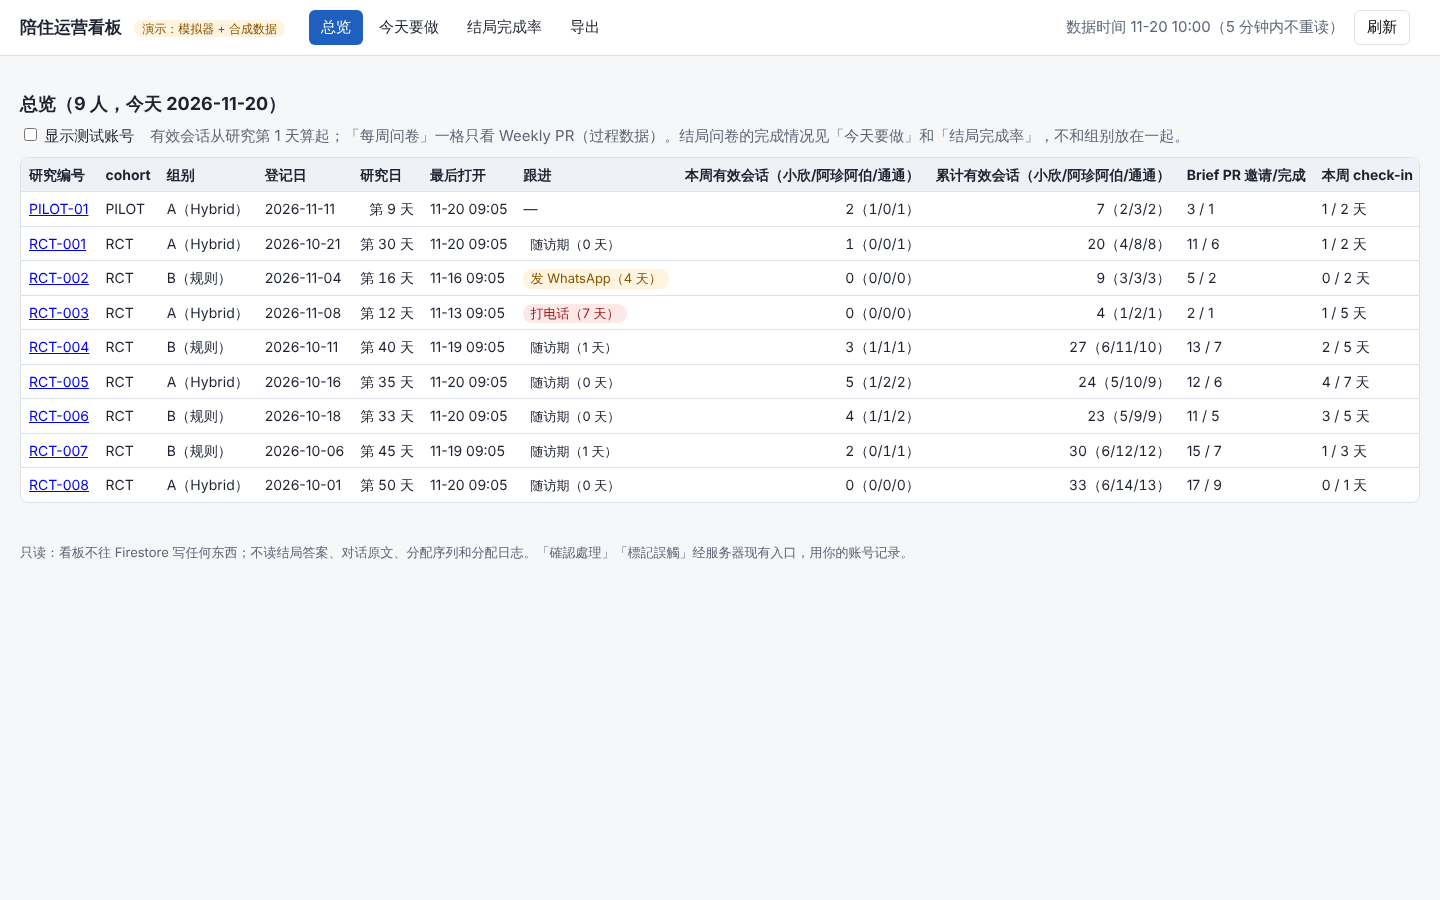
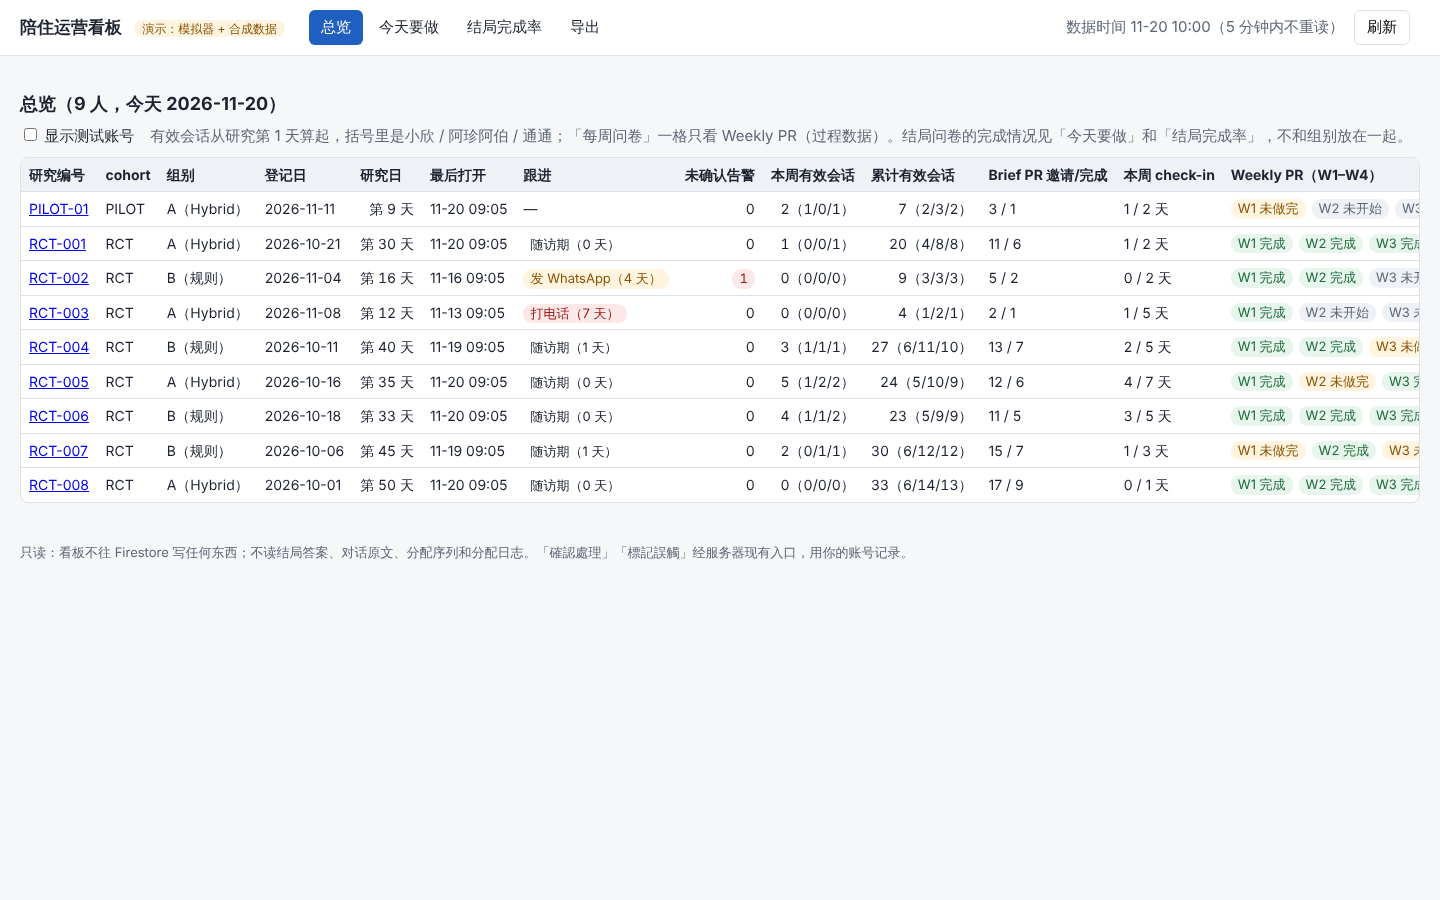
1020i v2 §2: narrower overview (one Weekly PR cell, alerts up front)
The overview fits a laptop screen better: the four Weekly PR columns are
one cell of four labels, the session headers are shorter, and the
unacknowledged-alert count sits next to the follow-up stage.  Screenshots
refreshed.

Claude-Session: https://claude.ai/code/session_013FmLr6bb1Cw8eCrYxKJMXh

diff --git a/tool/dashboard/public/app.js b/tool/dashboard/public/app.js
@@ -14,6 +14,9 @@
     follow_up_period: '随访期', none: '—'};
   const CELL = {not_yet: '未开始', open: '未做完', missed: '已过时间',
     done: '已完成', skipped: '已完成（跳过）', not_built: '未做'};
+  /** Short labels for the overview's one Weekly PR cell. */
+  const CELL_SHORT = {not_yet: '未开始', open: '未做完', missed: '过时',
+    done: '完成', skipped: '完成'};
   const LEVEL = {acute: '急性', moderate: '中度', low: '轻度'};
   const SOURCE_GROUP = {participant_input: '老人输入',
     ai_reply_scan: '夥伴回复扫描', questionnaire: '问卷',
@@ -255,6 +258,9 @@
       {label: '跟进', get: (r) => r.stage,
         cell: (r) => r.stage === 'none' ? '—' :
           pill(r.stage, `${STAGE[r.stage]}（${r.consecutiveUnopenedDays} 天）`)},
+      {label: '未确认告警', num: true, get: (r) => r.pendingAlerts,
+        cell: (r) => r.pendingAlerts ? pill('bad', String(r.pendingAlerts)) :
+          '0'},
     ].concat([sessionsCol('thisWeek', '本周'), sessionsCol('all', '累计')])
         .concat([
           {label: 'Brief PR 邀请/完成', get: (r) => r.briefPr.invited,
@@ -262,15 +268,16 @@
           {label: '本周 check-in', get: (r) => r.checkIn.daysThisWeek,
             cell: (r) => `${r.checkIn.daysThisWeek} / ${r.checkIn.daysSoFar} 天`},
         ])
-        .concat(['W1', 'W2', 'W3', 'W4'].map((w) => ({
-          label: `Weekly PR ${w}`, get: (r) => r.weeklyPr[w],
-          cell: (r) => pill(r.weeklyPr[w], CELL[r.weeklyPr[w]] || r.weeklyPr[w]),
-        })))
+        .concat([{
+          label: 'Weekly PR（W1–W4）',
+          get: (r) => ['W1', 'W2', 'W3', 'W4'].filter((w) =>
+            r.weeklyPr[w] === 'done' || r.weeklyPr[w] === 'skipped').length,
+          cell: (r) => h('span', {class: 'actions'}, ['W1', 'W2', 'W3', 'W4']
+              .map((w) => pill(r.weeklyPr[w] === 'skipped' ? 'done' : r.weeklyPr[w],
+                  `${w} ${CELL_SHORT[r.weeklyPr[w]] || r.weeklyPr[w]}`))),
+        }])
         .concat([
           {label: 'W8', get: (r) => r.w8, cell: (r) => pill(r.w8, CELL[r.w8])},
-          {label: '未确认告警', num: true, get: (r) => r.pendingAlerts,
-            cell: (r) => r.pendingAlerts ? pill('bad', String(r.pendingAlerts)) :
-              '0'},
         ]);
     const testerBox = h('input', {type: 'checkbox', id: 'show-testers',
       checked: showTesters || null});
